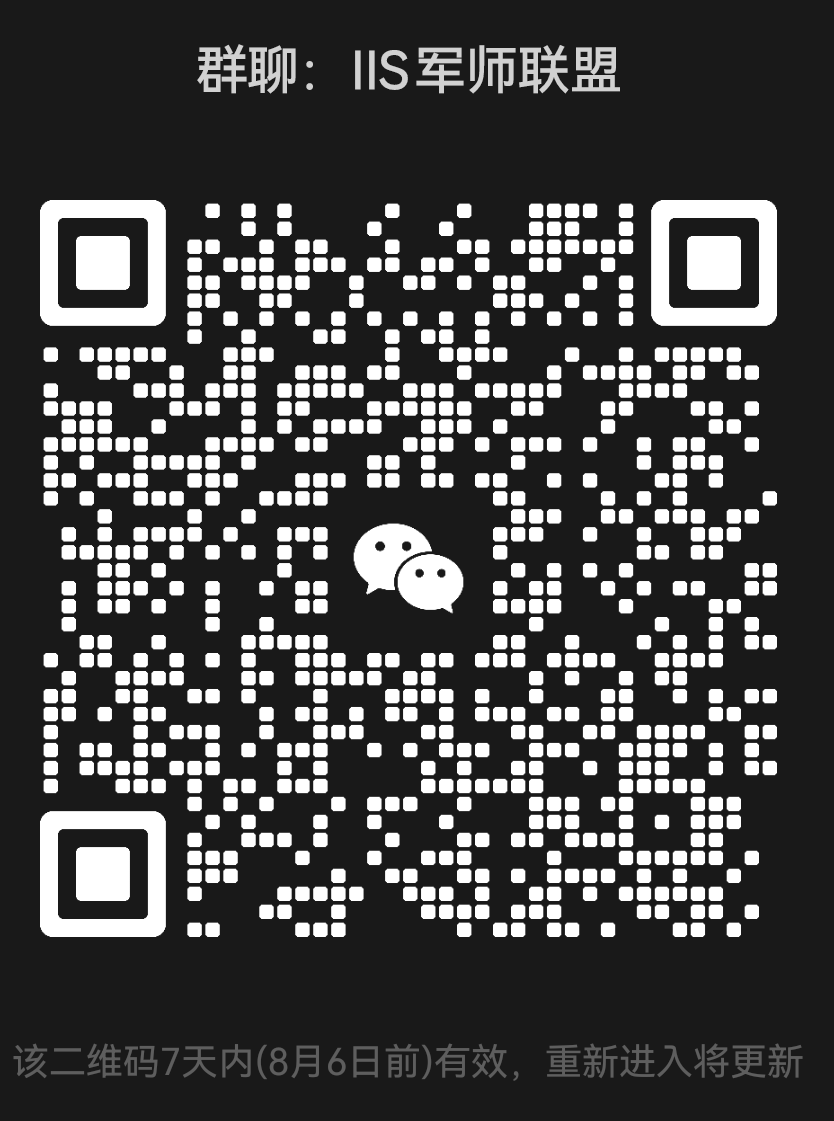
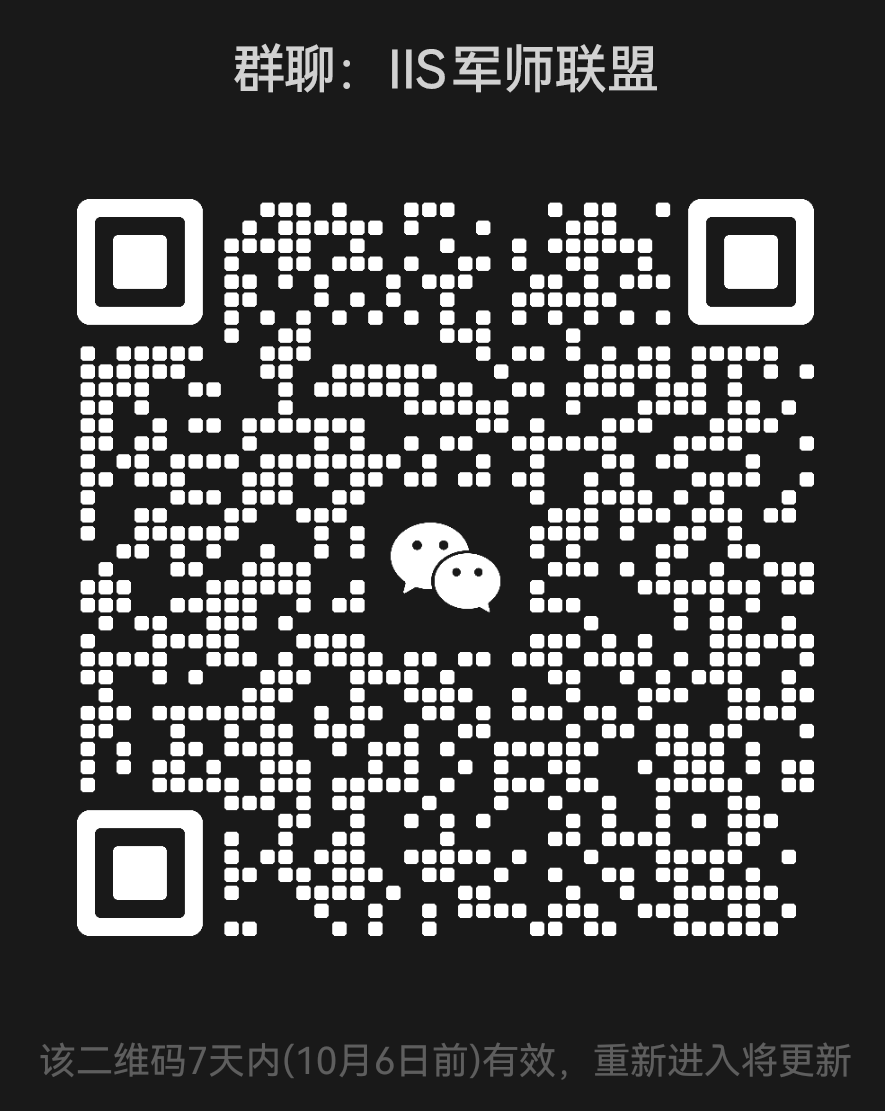
Update doc and QR.

diff --git a/README.md b/README.md
@@ -5,6 +5,11 @@
 项目地址：[https://github.com/SleepySoft/IntelligenceIntegrationSystem](https://github.com/SleepySoft/IntelligenceIntegrationSystem/tree/dev)
 
 
+## 更新与通知
+
+20260929 - Token额度用尽，后面的预算留给v3，当前网站停止更新。从此branch开始分叉，main分支将停留在v2，之前采集的数据在整理后会上传度盘。
+
+
 ## v2版本的说明
 
 从2026年2月15日开始，main分支将正式切换到v2版本。
@@ -22,11 +27,6 @@ v2版本兼容v1版本的数据，数据库不需要额外的升级操作。
 另外向量数据库存储的格式也进行了调整，即将部分内容直接置入metadata中。借助向量数据库，IIS系统支持相似情报跳转及关联情报推演功能。
 
 经过调整后的向量数据库对关联情报的查询表现优异，接下来我会重点研究情报的聚合以及关联推演。
-
-
-## 更新与通知
-
-N/A
 
 
 ## 起因
